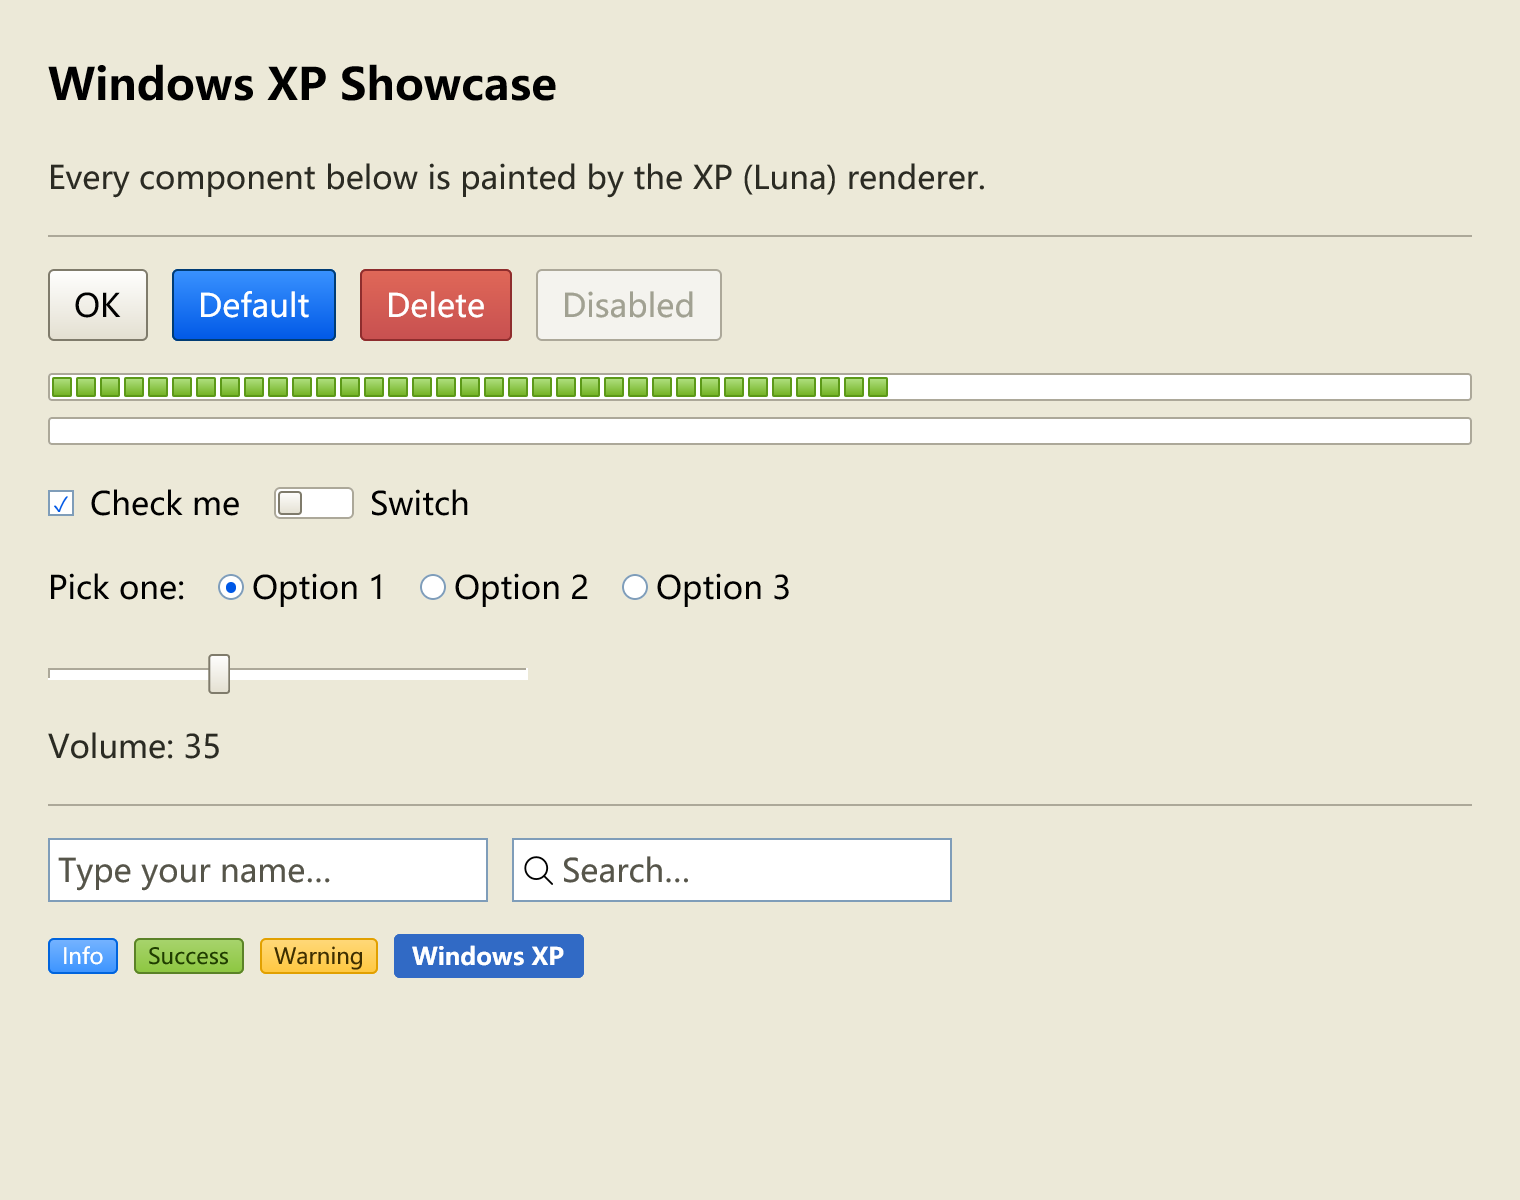
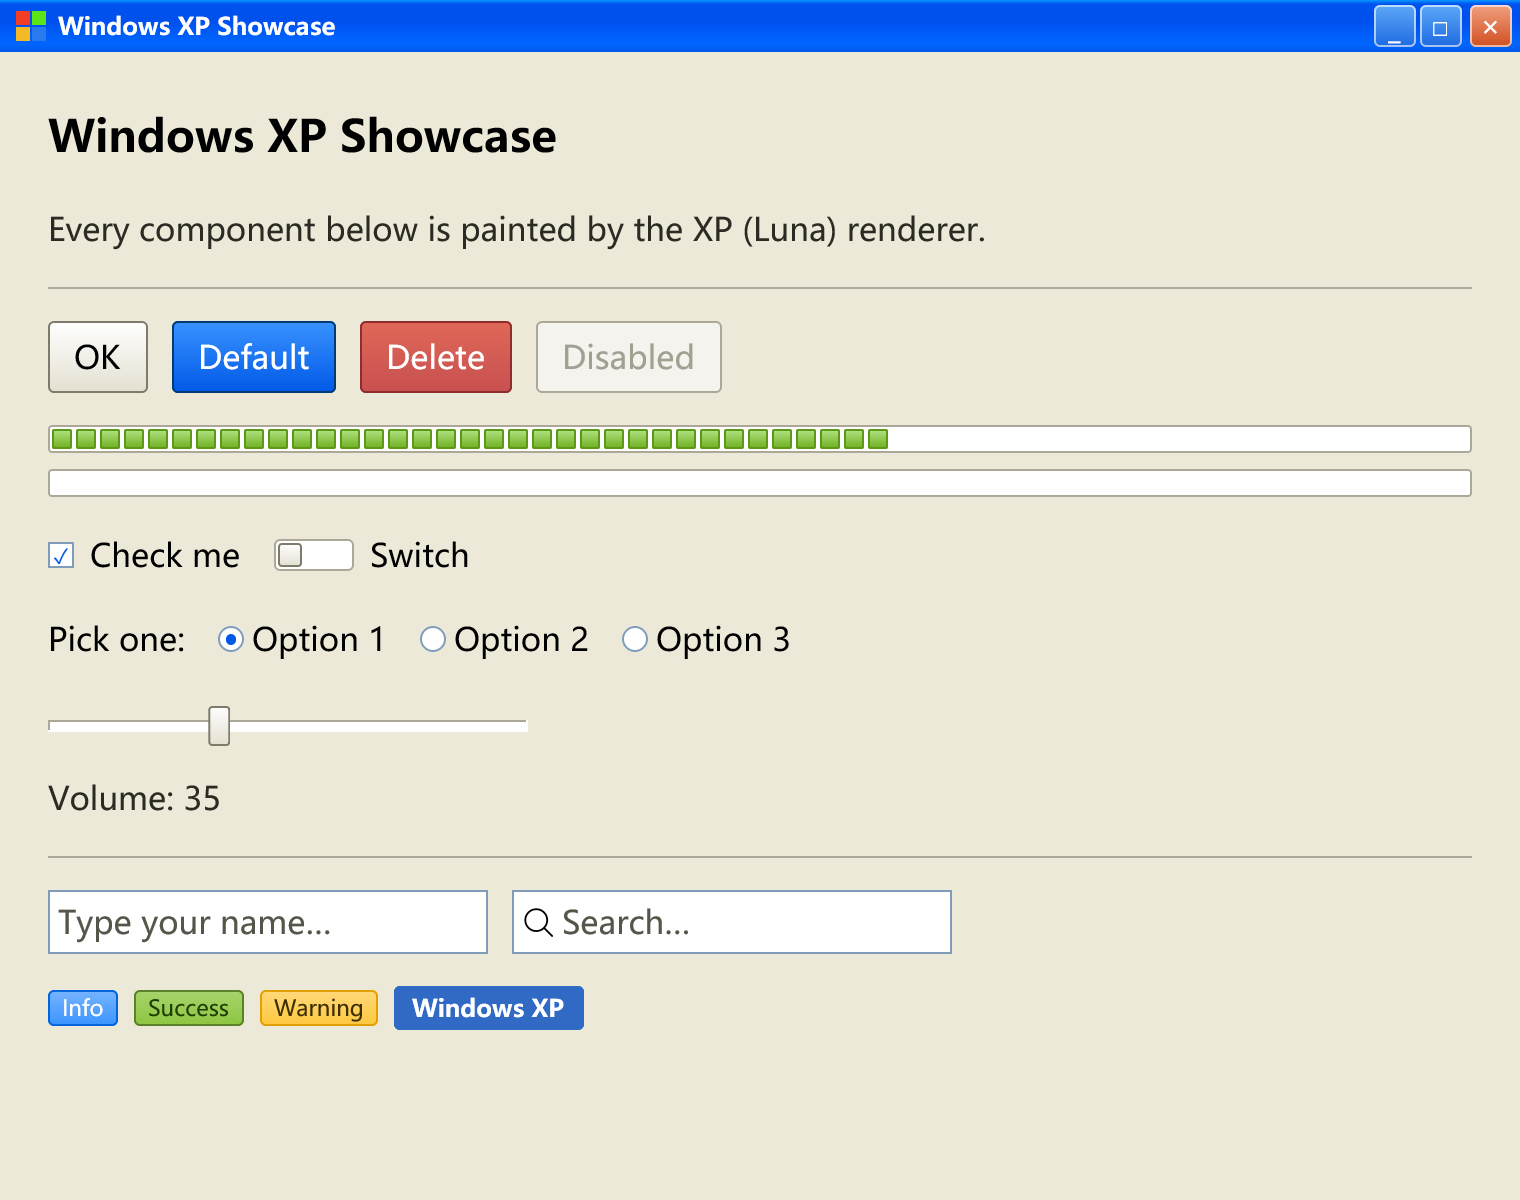
fix(xp-showcase): draw XP Luna title bar with client decorations
The OS-native white title bar broke the XP look. The demo window
now hides the system title bar (TitlebarOptions.appears_transparent)
and paints its own: 26px Luna title bar with the classic 5-stop
vertical blue gradient (#0997ff → #0058eb, approximated with four
2-stop bands), 7px rounded top corners, window-panes icon, white
title text, and glossy caption buttons (blue min/max, orange-red
close). Drag / minimize / maximize / close run natively through
window_control_area hitboxes, no click handlers needed.

Also refreshes screenshots/xp-showcase.png and documents the
client-decoration pattern in the xp-showcase-demo spec.

Changed region(s): [[0.0, 0.0, 1.0, 0.8633], [0.402, 0.4625, 0.5257, 0.555]]

diff --git a/crates/yororen-ui-demos/xp_showcase/src/xp_app.rs b/crates/yororen-ui-demos/xp_showcase/src/xp_app.rs
@@ -4,7 +4,11 @@
 //! renderer. The code is 100% headless — the XP look comes
 //! entirely from the installed renderer + `xp-luna.json`.
 
-use gpui::{Context, IntoElement, ParentElement, Render, Styled, Window, div, px};
+use gpui::{
+    Context, Div, FontWeight, Hsla, InteractiveElement, IntoElement, ParentElement, Render,
+    Stateful, StatefulInteractiveElement, Styled, Window, WindowControlArea, div, hsla,
+    linear_color_stop, linear_gradient, px,
+};
 
 use yororen_ui::ActionVariantKind;
 use yororen_ui::headless::badge::{BadgeVariant, badge};
@@ -23,6 +27,220 @@ use yororen_ui::headless::switch::switch;
 use yororen_ui::headless::tag::tag;
 use yororen_ui::headless::text_input::text_input;
 use yororen_ui::theme::ActiveTheme;
+use yororen_ui::theme::Theme;
+
+/// One XP caption button (min / max / close). The action itself is
+/// performed natively by Windows through the `WindowControlArea`
+/// hitbox, so no `on_click` handler is needed; gpui hover/active
+/// styles still apply on top.
+///
+/// The face is a glossy vertical gradient (light top → saturated
+/// bottom) with a translucent white edge, matching the Luna
+/// caption-button look.
+fn caption_button(
+    id: &'static str,
+    glyph: &'static str,
+    area: WindowControlArea,
+    top: Hsla,
+    bottom: Hsla,
+    glyph_color: Hsla,
+) -> Stateful<Div> {
+    let hover_top = Hsla {
+        l: (top.l + 0.07).clamp(0.0, 1.0),
+        ..top
+    };
+    let hover_bottom = Hsla {
+        l: (bottom.l + 0.07).clamp(0.0, 1.0),
+        ..bottom
+    };
+    div()
+        .id(id)
+        .window_control_area(area)
+        .w(px(21.))
+        .h(px(21.))
+        .rounded(px(3.))
+        .border(px(1.))
+        .border_color(hsla(0.0, 0.0, 1.0, 0.6))
+        .bg(linear_gradient(
+            180.0,
+            linear_color_stop(top, 0.0),
+            linear_color_stop(bottom, 1.0),
+        ))
+        .flex()
+        .items_center()
+        .justify_center()
+        .text_color(glyph_color)
+        .text_size(px(14.))
+        .child(glyph)
+        .hover(move |s| {
+            s.bg(linear_gradient(
+                180.0,
+                linear_color_stop(hover_top, 0.0),
+                linear_color_stop(hover_bottom, 1.0),
+            ))
+        })
+        .active(move |s| {
+            s.bg(linear_gradient(
+                180.0,
+                linear_color_stop(bottom, 0.0),
+                linear_color_stop(top, 1.0),
+            ))
+        })
+}
+
+/// The XP Luna title bar, styled after the classic CSS recipe:
+///
+/// ```css
+/// height: 26px;
+/// border-radius: 7px 7px 0 0;
+/// background: linear-gradient(180deg, #0997ff 0%, #0053ee 8%,
+///     #0050ee 40%, #06f 88%, #0058eb 100%);
+/// padding: 0 4px 0 8px; gap: 6px;
+/// ```
+///
+/// gpui's `linear_gradient` only supports two stops, so the
+/// 5-stop vertical gradient is approximated with four stacked
+/// 2-stop bands (heights proportional to the CSS percentages).
+/// Dragging / min / max / close are native Windows behaviors via
+/// `WindowControlArea` hitboxes (the demo window uses
+/// `appears_transparent` client decorations).
+fn xp_title_bar(_theme: &Theme) -> Stateful<Div> {
+    // The five CSS gradient stops.
+    let c0: Hsla = gpui::rgb(0x0997FF).into(); // 0%
+    let c1: Hsla = gpui::rgb(0x0053EE).into(); // 8%
+    let c2: Hsla = gpui::rgb(0x0050EE).into(); // 40%
+    let c3: Hsla = gpui::rgb(0x0066FF).into(); // 88%
+    let c4: Hsla = gpui::rgb(0x0058EB).into(); // 100%
+    let title_fg: Hsla = gpui::rgb(0xFFFFFF).into();
+    // Caption-button faces: glossy light blue over the bar blue;
+    // the close button is the signature Luna orange-red.
+    let btn_top: Hsla = gpui::rgb(0x5CA8F8).into();
+    let btn_bottom: Hsla = gpui::rgb(0x1E6AE1).into();
+    let close_top: Hsla = gpui::rgb(0xF0A080).into();
+    let close_bottom: Hsla = gpui::rgb(0xD04E20).into();
+
+    // Four stacked bands ≈ the 5-stop vertical gradient
+    // (2/8/12/4 px of the 26 px bar, matching 0-8-40-88-100%).
+    let bands = div()
+        .absolute()
+        .top_0()
+        .left_0()
+        .right_0()
+        .bottom_0()
+        .flex()
+        .flex_col()
+        .child(div().h(px(2.)).w_full().bg(linear_gradient(
+            180.0,
+            linear_color_stop(c0, 0.0),
+            linear_color_stop(c1, 1.0),
+        )))
+        .child(div().h(px(8.)).w_full().bg(linear_gradient(
+            180.0,
+            linear_color_stop(c1, 0.0),
+            linear_color_stop(c2, 1.0),
+        )))
+        .child(div().h(px(12.)).w_full().bg(linear_gradient(
+            180.0,
+            linear_color_stop(c2, 0.0),
+            linear_color_stop(c3, 1.0),
+        )))
+        .child(div().h(px(4.)).w_full().bg(linear_gradient(
+            180.0,
+            linear_color_stop(c3, 0.0),
+            linear_color_stop(c4, 1.0),
+        )));
+
+    // Mini 2x2 "window panes" app icon.
+    let pane = |c: Hsla| div().w(px(7.)).h(px(7.)).bg(c);
+    let pane_row = |a: Hsla, b: Hsla| {
+        div()
+            .flex()
+            .flex_row()
+            .gap(px(1.))
+            .child(pane(a))
+            .child(pane(b))
+    };
+    let icon = div()
+        .flex()
+        .flex_col()
+        .gap(px(1.))
+        .child(pane_row(
+            hsla(0.02, 0.9, 0.55, 1.0),
+            hsla(0.28, 0.8, 0.5, 1.0),
+        ))
+        .child(pane_row(
+            hsla(0.12, 0.9, 0.55, 1.0),
+            hsla(0.6, 0.85, 0.55, 1.0),
+        ));
+
+    div()
+        .id("xp-titlebar")
+        .window_control_area(WindowControlArea::Drag)
+        .relative()
+        .w_full()
+        .h(px(26.))
+        .rounded_tl(px(7.))
+        .rounded_tr(px(7.))
+        .overflow_hidden()
+        .child(bands)
+        .child(
+            div()
+                .flex()
+                .flex_row()
+                .items_center()
+                .justify_between()
+                .w_full()
+                .h_full()
+                .pl(px(8.))
+                .pr(px(4.))
+                .child(
+                    div()
+                        .flex()
+                        .flex_row()
+                        .items_center()
+                        .gap(px(6.))
+                        .child(icon)
+                        .child(
+                            div()
+                                .text_color(title_fg)
+                                .text_size(px(12.))
+                                .font_weight(FontWeight::SEMIBOLD)
+                                .child("Windows XP Showcase"),
+                        ),
+                )
+                .child(
+                    div()
+                        .flex()
+                        .flex_row()
+                        .items_center()
+                        .gap(px(2.))
+                        .child(caption_button(
+                            "xp-cap-min",
+                            "_",
+                            WindowControlArea::Min,
+                            btn_top,
+                            btn_bottom,
+                            title_fg,
+                        ))
+                        .child(caption_button(
+                            "xp-cap-max",
+                            "□",
+                            WindowControlArea::Max,
+                            btn_top,
+                            btn_bottom,
+                            title_fg,
+                        ))
+                        .child(div().ml(px(2.)).child(caption_button(
+                            "xp-cap-close",
+                            "×",
+                            WindowControlArea::Close,
+                            close_top,
+                            close_bottom,
+                            title_fg,
+                        ))),
+                ),
+        )
+}
 
 pub struct XpApp {
     checkbox_value: bool,
@@ -237,9 +455,8 @@ impl Render for XpApp {
                     .render(cx),
             );
 
-        column("xp-root", cx)
+        let content = column("xp-root", cx)
             .w_full()
-            .h_full()
             .p(Inset::Xl)
             .gap(Spacing::Lg)
             .child(heading("hdg-title", HeadingLevel::H2, "Windows XP Showcase", cx).render(cx))
@@ -262,6 +479,15 @@ impl Render for XpApp {
             .child(inputs_row.render(cx))
             .child(badge_row.render(cx))
             .render(cx)
+            .flex_grow();
+
+        div()
+            .flex()
+            .flex_col()
+            .w_full()
+            .h_full()
             .bg(surface)
+            .child(xp_title_bar(cx.theme()))
+            .child(content)
     }
 }

diff --git a/crates/yororen-ui-demos/xp_showcase/src/main.rs b/crates/yororen-ui-demos/xp_showcase/src/main.rs
@@ -8,7 +8,7 @@
 //!
 //! Run with: `cargo run -p xp-showcase-demo`
 
-use gpui::{App, AppContext, Application, WindowBounds, WindowOptions, px, size};
+use gpui::{App, AppContext, Application, TitlebarOptions, WindowBounds, WindowOptions, px, size};
 
 use yororen_ui::assets::UiAsset;
 use yororen_ui::xp_renderer;
@@ -28,6 +28,14 @@ fn main() {
                 size(px(760.0), px(600.0)),
                 cx,
             ))),
+            // Hide the OS title bar — the demo draws its own XP
+            // Luna title bar (drag / min / max / close all work
+            // through `window_control_area` hitboxes).
+            titlebar: Some(TitlebarOptions {
+                title: Some("Windows XP Showcase".into()),
+                appears_transparent: true,
+                traffic_light_position: None,
+            }),
             ..Default::default()
         };
         let app_entity = cx.new(|_cx| xp_app::XpApp::new());